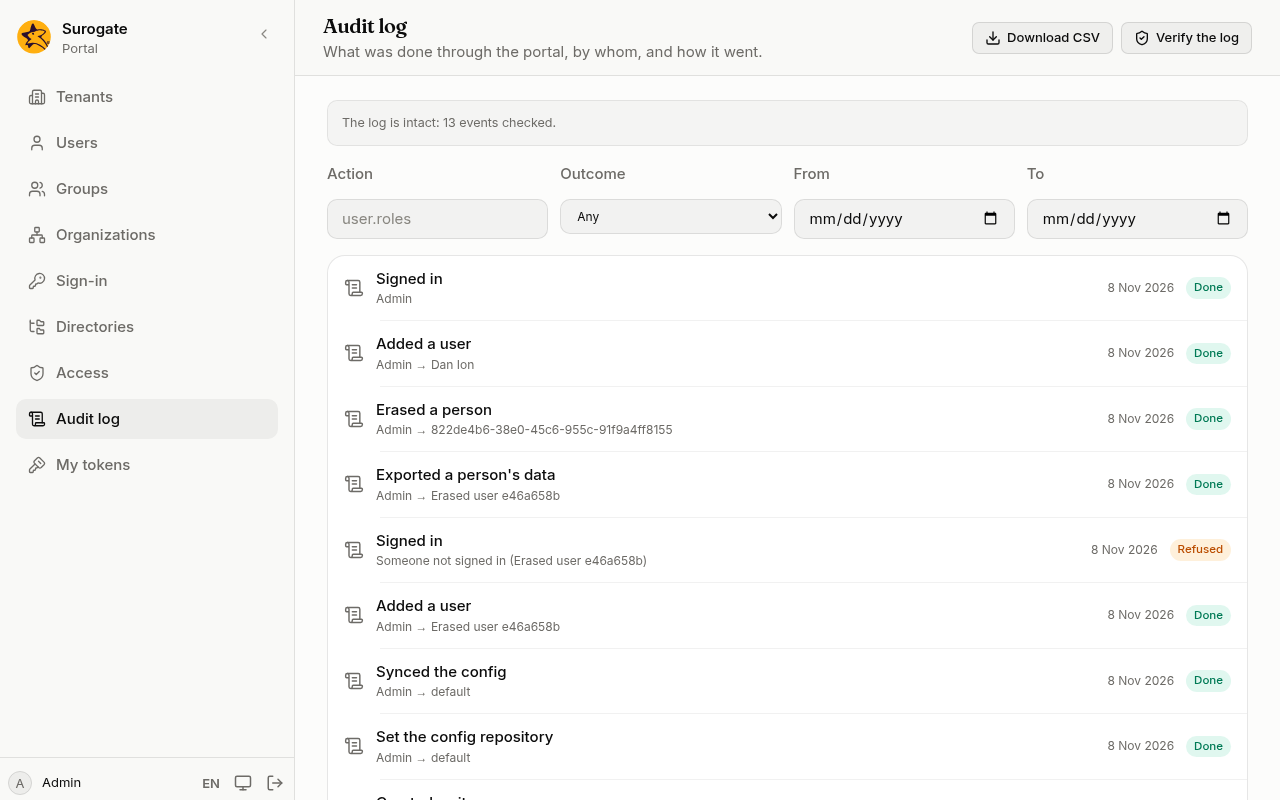
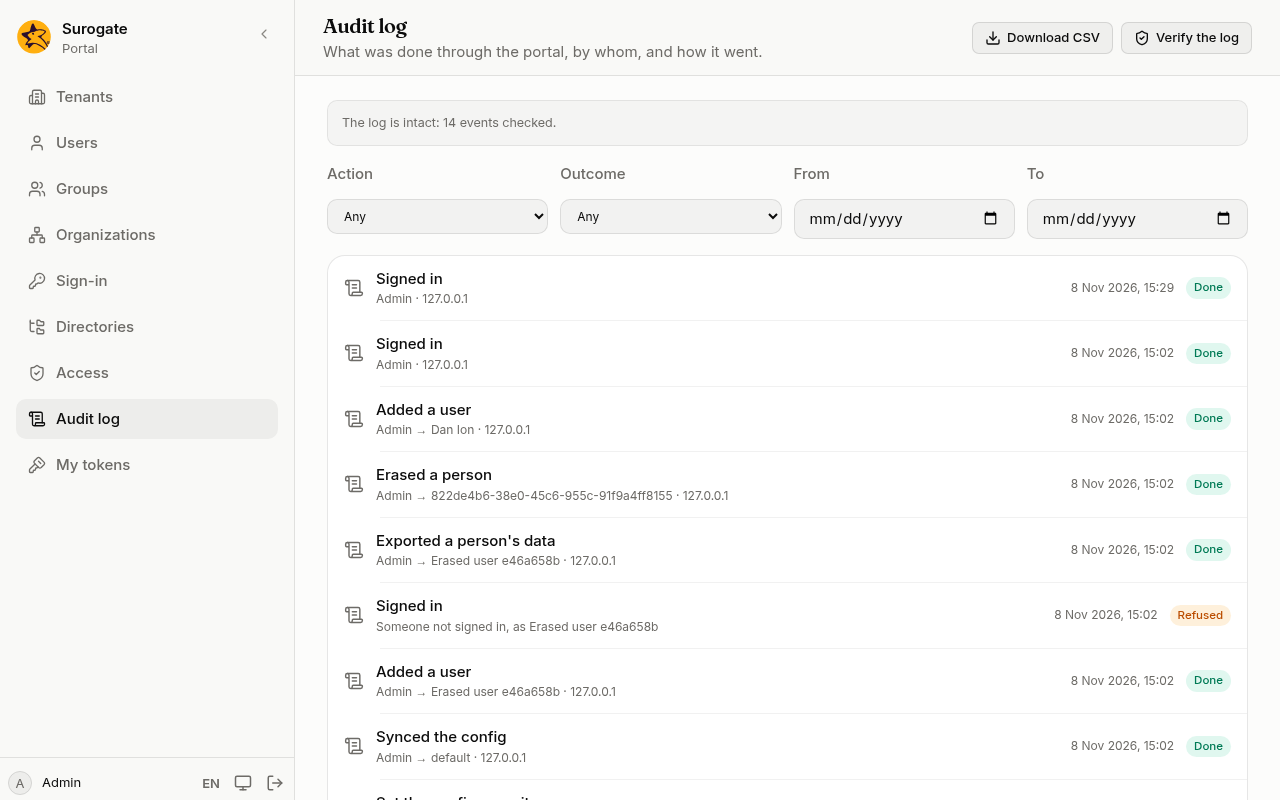
docs(portal): audit filters, times and the person filter

diff --git a/src/content/docs/portal/console/audit.md b/src/content/docs/portal/console/audit.md
@@ -11,13 +11,15 @@ On **Audit log**, an administrator sees everything that changed something in the
 
 Narrow the list with:
 
-- **Action**: what was done, such as `user.roles` for role changes.
+- **Action**: what was done, such as **Changed roles**.
 - **Outcome**: **Done**, **Refused** or **Failed**.
-- **From** and **To**: the days to look at.
+- **From** and **To**: the days to look at, both included, in your own time.
 
-Press **Load more** at the bottom for older events. To see what one person did, open their page under **Users** and press **See their audit events**.
+Each event shows when it happened and the address it came from. Press **Load more** at the bottom for older events.
 
-**Download CSV** saves the events the filters show, for a spreadsheet or an auditor.
+To see what one person did and what was done to them, open their page under **Users** and press **See their audit events**. Press **Show everyone** to go back to the whole log.
+
+**Download CSV** saves the events the filters show, for a spreadsheet or an auditor. A very large download says at its end that it was cut short; narrow the filters for the rest.
 
 ## Check that the log was not changed
 
@@ -26,6 +28,6 @@ Press **Verify the log**. The portal checks every event against the one before i
 - **The log is intact: N events checked.** Nothing was changed or removed.
 - **The log was changed at event N.** Someone with access to the database altered or removed events from that one on. Tell whoever runs the portal.
 
-Passwords, tokens and what people typed into forms are never in the log. A refused sign-in keeps the login that was tried only when it is an email address.
+Passwords, tokens and what people typed into forms are never in the log. A refused sign-in keeps the login that was tried only when it is a user's email or username; anything else might be a password typed in the wrong field, and is not kept.
 
 Events are kept for two years unless whoever runs the portal sets another period. When a person is erased, their name, email and address are removed from the events about them; the events themselves stay.

diff --git a/src/content/docs/portal/console/users.md b/src/content/docs/portal/console/users.md
@@ -77,6 +77,6 @@ Under **Personal data** on a person's page, an administrator answers a data prot
 
 ![Erase Dan Ion?, with the email typed to confirm and the Erase button.](../../../../assets/screenshots/portal-erase.png)
 
-Erasing asks every app to erase the person first. If an app cannot, the console names it, and the person stays disabled until you try again. When every app has erased them, they are removed from the portal, and their name and email are removed from the audit log.
+Erasing asks every app to erase the person first. If an app cannot, the console names it, and the person stays disabled until you try again. If an app has not been set up to erase people, nothing is done and the console names it. When every app has erased them, they are removed from the portal, and their name and email are removed from the audit log.
 
 You cannot erase yourself, nor the last active administrator. A person who comes from a directory or from SCIM can come back on the next sync: remove them there as well. If the site's files name the person, the console says so; remove them from the files too.
